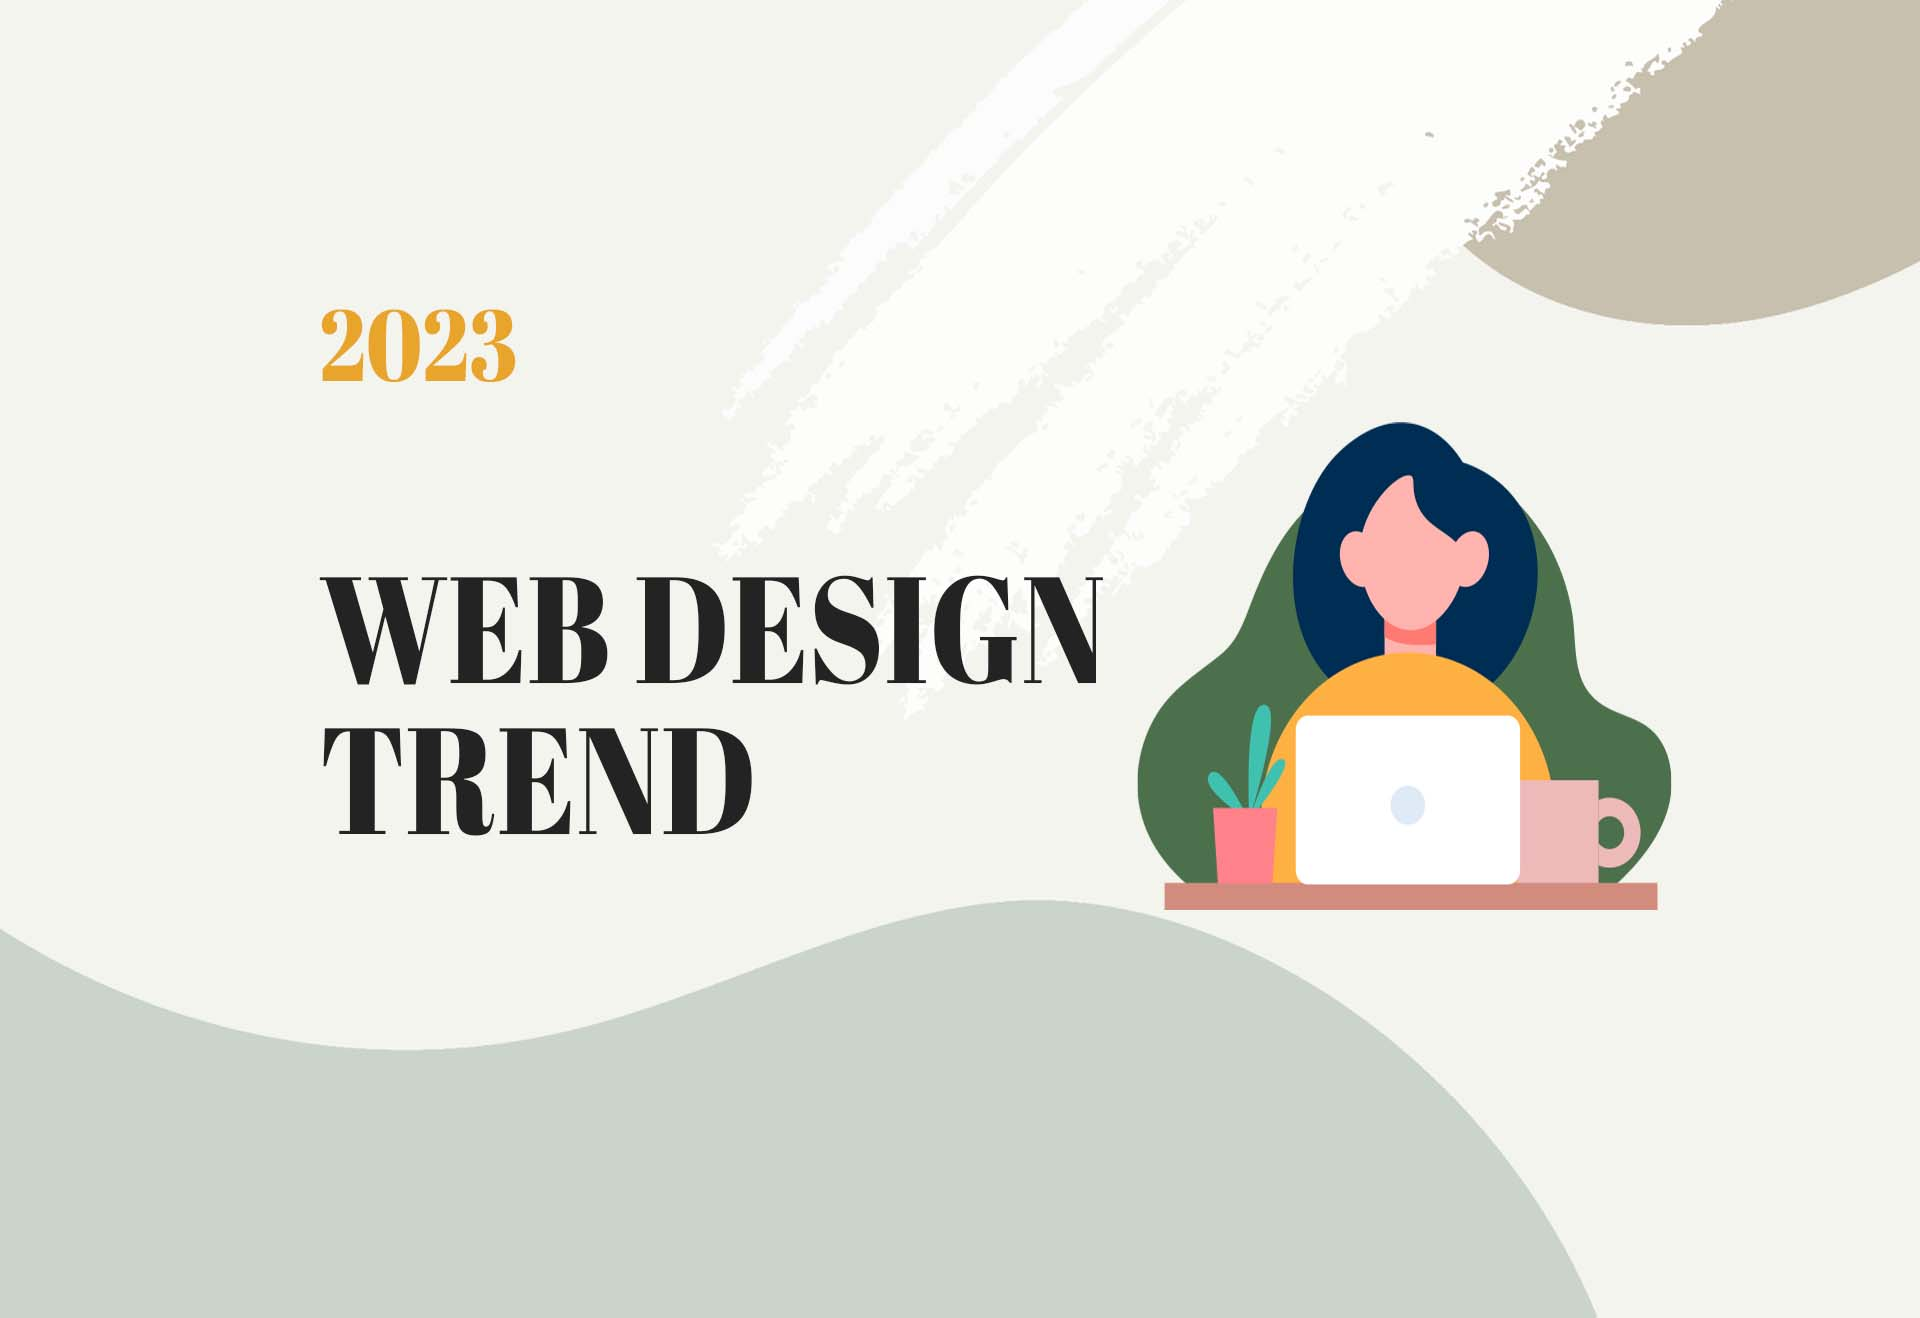
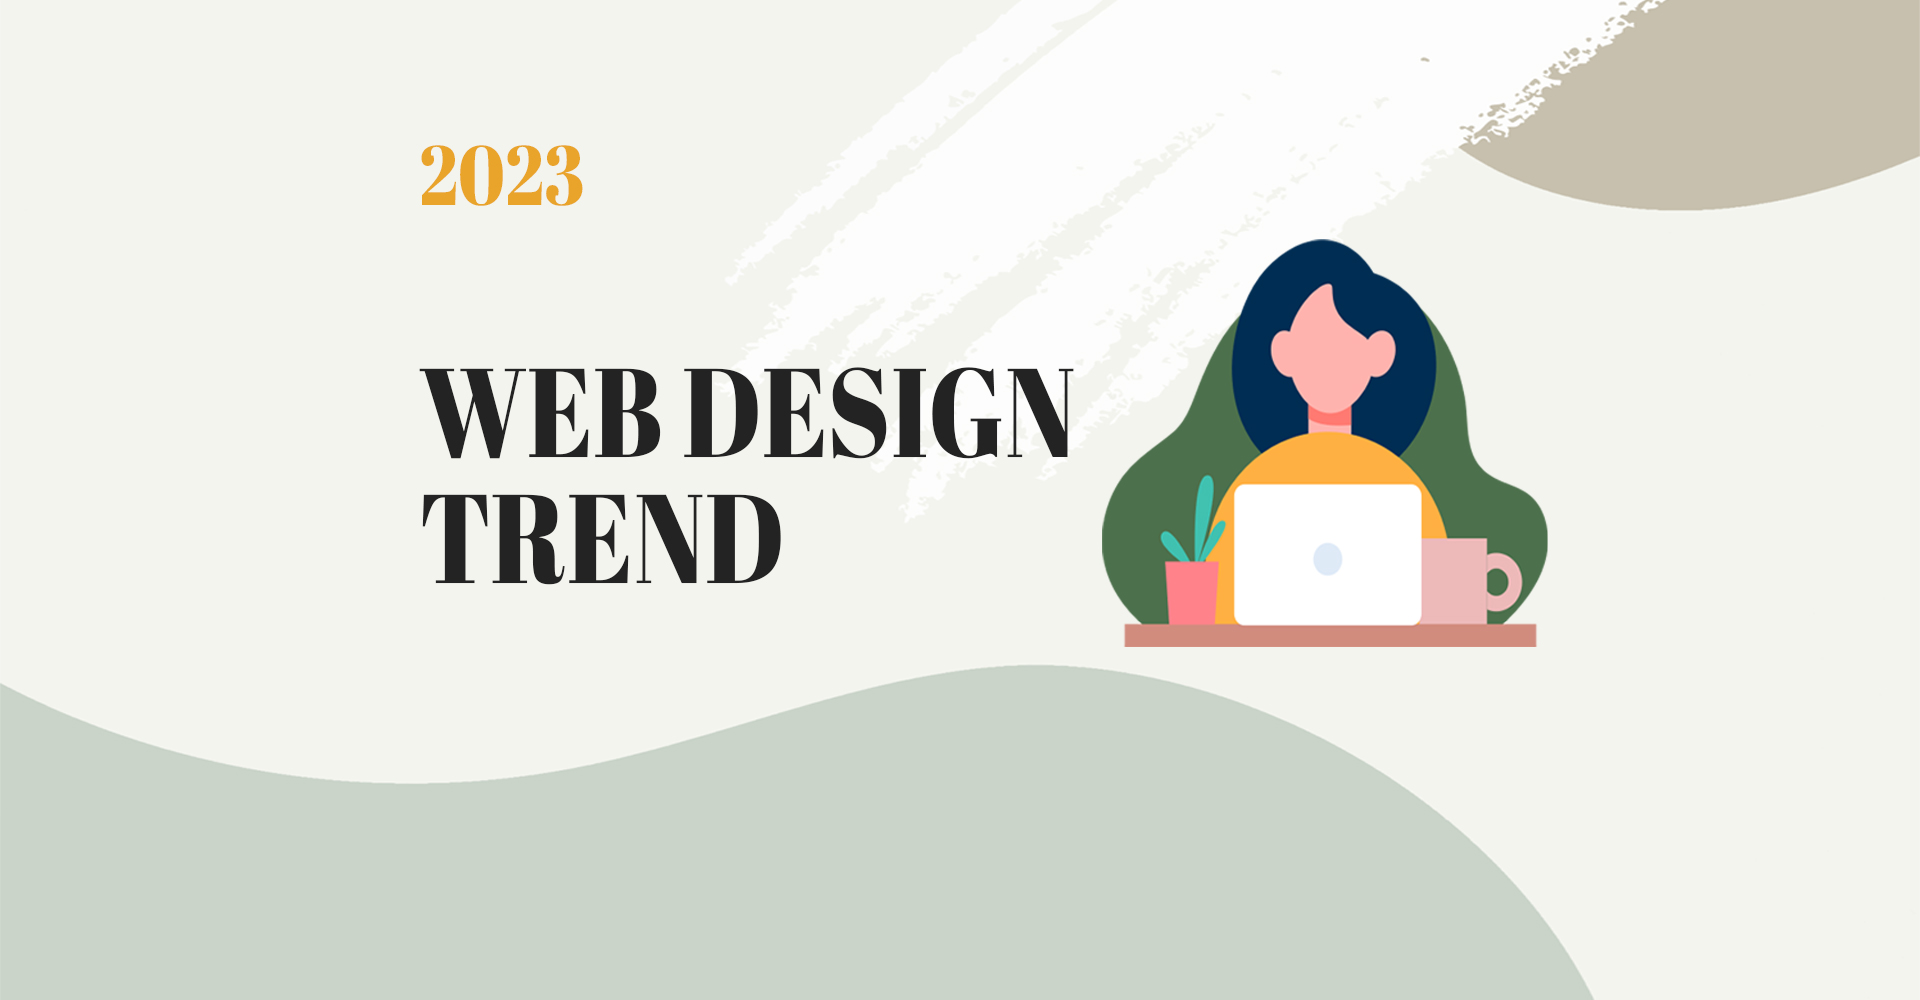
수정2

diff --git a/css/index.css b/css/index.css
@@ -17,7 +17,7 @@ header{
   z-index: 500;
 }
 section{
-  margin: 7% auto;
+  margin: 2% auto;
   width: 1200px;
   height: auto;
   overflow: hidden;
@@ -44,15 +44,11 @@ section{
 }
 main{
   width: 100vw;
-  height: 100vh;
 }
-.banner{
-  background: url(../image/banner1.jpg)no-repeat center center;
-  background-size: cover;
-  max-width: 100%;
-  height: 100vh;
-  position: relative;
-}
+.banner img{width: 100%;}
+.banner img:nth-child(2){display: none;}
+.banner img:nth-child(3){display: none;}
+
 .content1{
   display: flex;
   justify-content: space-around;
@@ -243,10 +239,6 @@ address{
     justify-content: space-around;
     align-items: center;
   }
-  main{
-    width: 100vw;
-    height: 900px;
-  }
   .gnb{
     margin-bottom: 20px;
     width: 80%;
@@ -254,13 +246,12 @@ address{
   }
   section{
     width: 100%;
-    margin: auto;
+    height: auto;
   }
-  .banner{
-    background: url(../image/banner2.jpg)no-repeat center center;
-    width: 100vw;
-    height: 800px;
-  }
+  .banner img:nth-child(1){display: none;}
+  .banner img:nth-child(2){display: block;}
+  .banner img:nth-child(3){display: none;}
+
   .contents div:nth-child(2){
     flex-direction: row;
   }.contents div:nth-child(4){
@@ -310,10 +301,6 @@ address{
     height: auto;
     flex-direction: column;
   }
-  main{
-    width: 100vw;
-    height: 450px;
-  }
   section{
     width: 100%;
     margin: auto;
@@ -347,13 +334,10 @@ address{
   .trigger span:nth-child(2) {top: 50%;}
   .trigger span:nth-child(3) {top: 100%;}
   
-  .banner{
-    background: url(../image/banner3.jpg)no-repeat center center;
-    background-size: cover;
-    width: 100%;
-    height: 500px;
-    position: relative;
-  }
+  .banner img:nth-child(1){display: none;}
+  .banner img:nth-child(2){display: none;}
+  .banner img:nth-child(3){display: block;}
+
   .content1_text h2{
     display: none;
   }

diff --git a/index.html b/index.html
@@ -27,7 +27,11 @@
 			</div>
     </header>
     <main>
-      <div class="banner"></div>
+      <div class="banner">
+        <img src="image/banner1.jpg" alt="">
+        <img src="image/banner2.jpg" alt="">
+        <img src="image/banner3.jpg" alt="">
+      </div>
     </main>
     <section>
       <div class=content1>
@@ -41,7 +45,7 @@
               <li><a href="#none">FLAT</a></li>
               <li><a href="#none">TYPOGRAPHY</a></li>
               <li><a href="#none">GRID</a></li>
-              <li><a href="#none">GLASSMORPHISM</a></li>
+              <li><a href="#none">GLASS</a></li>
             </ul>
           </div>
         </div>
